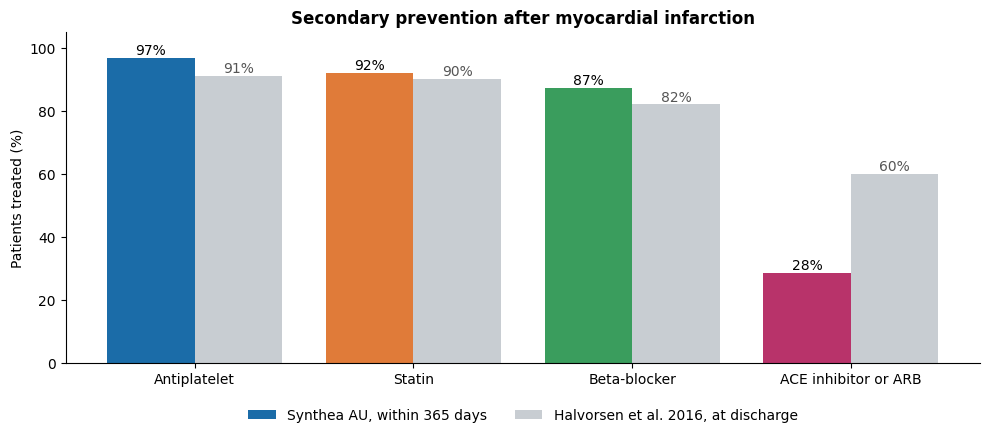
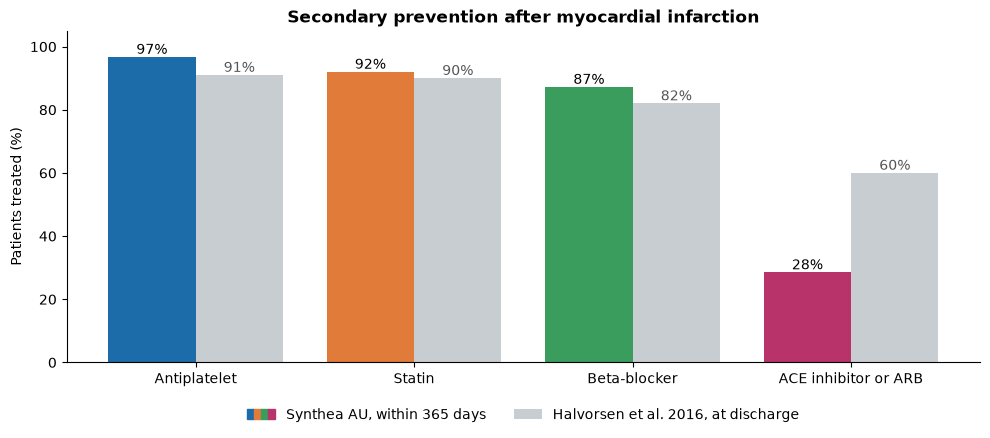
Show every class colour in the MI chart legend

diff --git a/notebooks/synthea/create_mi_secondary_prevention_views.py b/notebooks/synthea/create_mi_secondary_prevention_views.py
@@ -20,6 +20,8 @@
 
 import matplotlib.pyplot as plt
 import pandas as pd
+from matplotlib.legend_handler import HandlerTuple
+from matplotlib.patches import Patch
 from pathling import PathlingContext
 
 TERMINOLOGY_STORE = "s3://open-fhir-training-data/terminology/tx-store"
@@ -579,7 +581,18 @@ ax.set_xticks(list(x), DRUG_CLASSES)
 ax.set_ylim(0, 105)
 ax.set_ylabel("Patients treated (%)")
 ax.set_title("Secondary prevention after myocardial infarction")
-ax.legend(frameon=False, ncol=2, loc="upper center", bbox_to_anchor=(0.5, -0.1))
+# One legend entry per data source; the Synthea entry shows all four class colours.
+handles, labels = ax.get_legend_handles_labels()
+handles[0] = tuple(Patch(color=CLASS_COLOURS[c]) for c in DRUG_CLASSES)
+ax.legend(
+    handles,
+    labels,
+    handler_map={tuple: HandlerTuple(ndivide=None, pad=0)},
+    frameon=False,
+    ncol=2,
+    loc="upper center",
+    bbox_to_anchor=(0.5, -0.1),
+)
 plt.tight_layout()
 plt.show()
 
